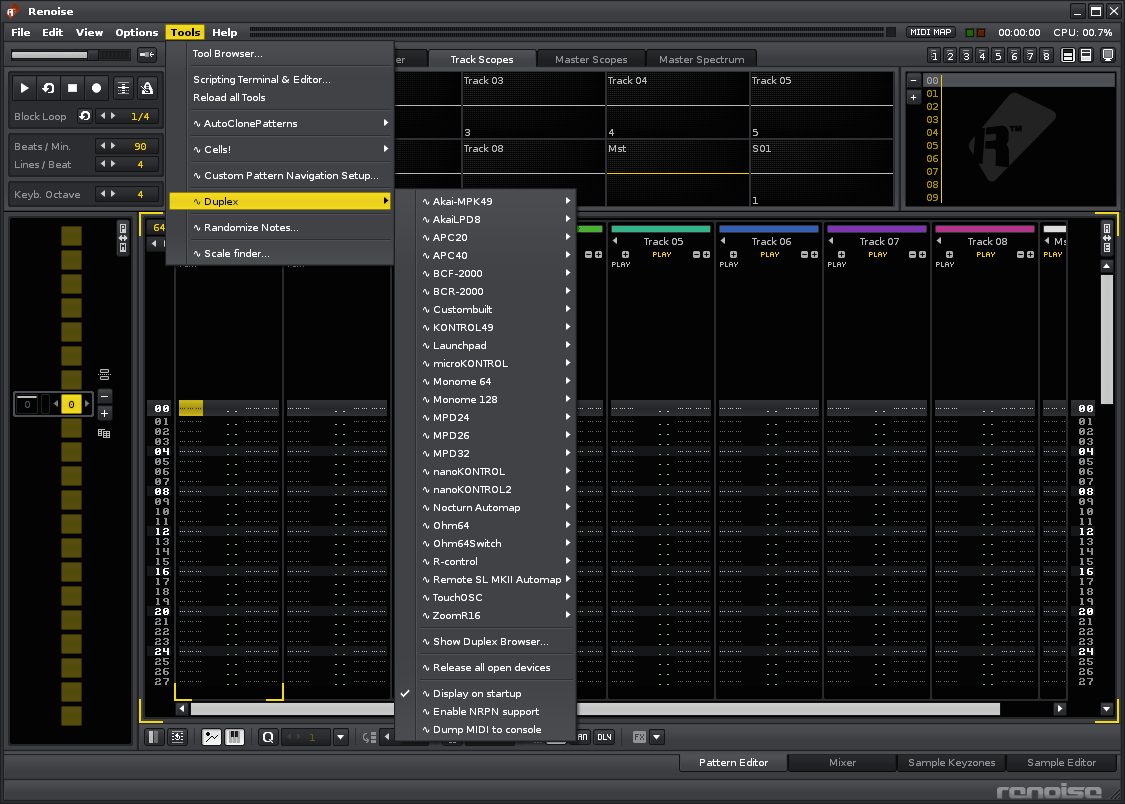
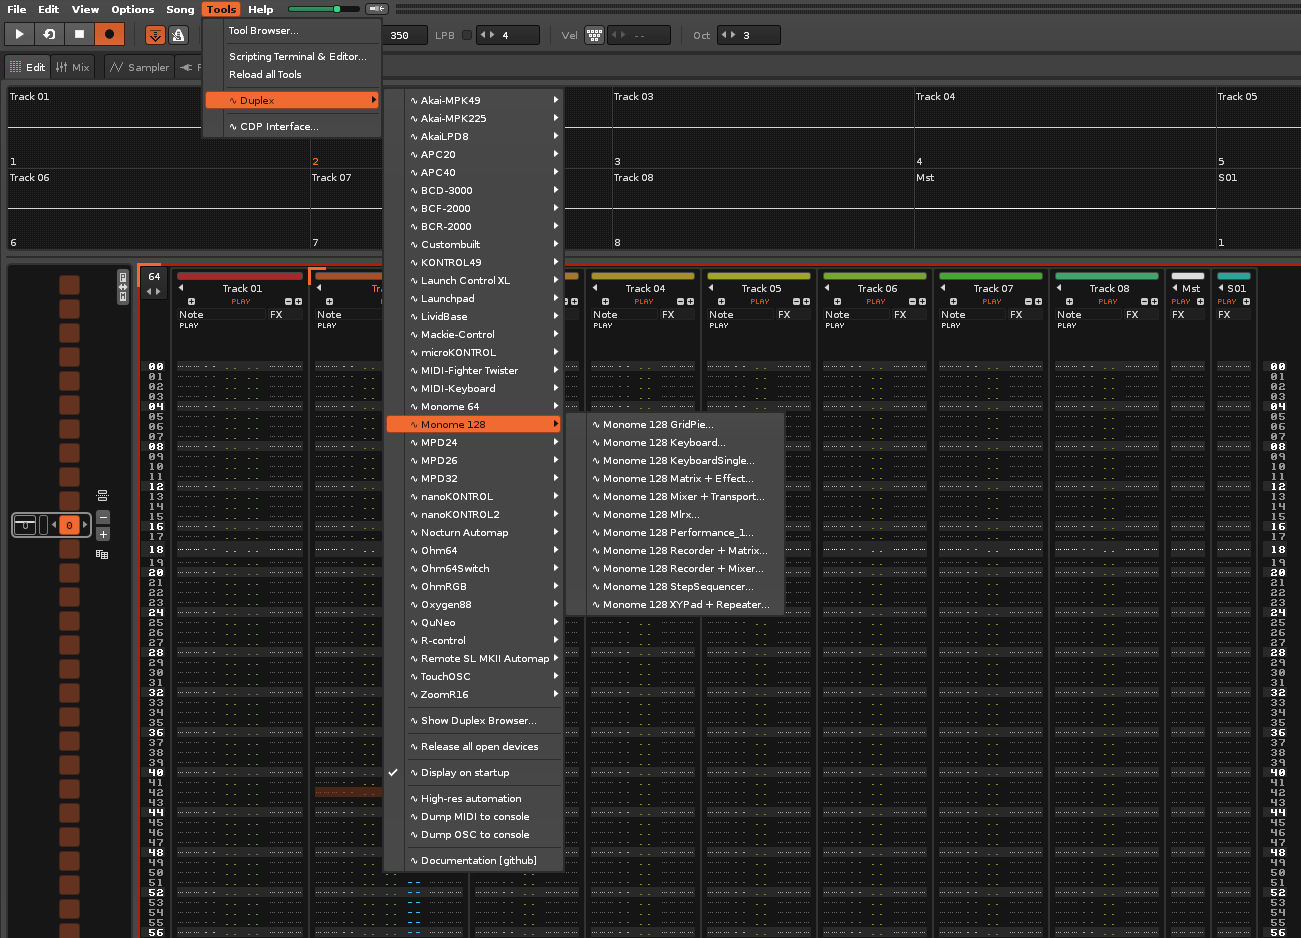
- update docs (new menu screenshot)

diff --git a/Tools/com.renoise.Duplex.xrnx/Docs/GettingStarted.md b/Tools/com.renoise.Duplex.xrnx/Docs/GettingStarted.md
@@ -2,9 +2,7 @@
 
 ## The front-end 
 
-For the most part, the Duplex front-end is designed to be self-documenting - mouse over any part of the interface to get help and
-additional information about what each buttons/control does. The following is a quick walk-through of the
-most important user-interface elements, and how they work:
+For the most part, the Duplex front-end is designed to be self-documenting - mouse over any part of the interface to get help and additional information about what each buttons/control does. The following is a quick walk-through of the most important user-interface elements, and how they work:
 
 ### The tool menu
 When Duplex is first installed, a sub-menu labelled Duplex will appear in the tools menu
@@ -15,25 +13,20 @@ When Duplex is first installed, a sub-menu labelled Duplex will appear in the to
 | Name          | Description   |
 | ------------- |---------------|
 |Show browser|Display the Duplex browser, the primary UI for displaying and navigating devices
+|Release all open devices| Close all running devices & configurations that are currently running
 |Display on startup| Enable this to show the Duplex browser on startup. This will only have an effect when one or more device configurations have been selected to “autostart”
-|Release all..| Close all running devices & configurations that are currently running
-|Dump MIDI..| This is useful for debugging faulty MIDI devices
+|High-res automation| Enable high-res automation recording for all applications that implement [Automateable](Applications/Automateable.md)
+|Dump MIDI to console| This is useful for debugging MIDI devices
+|Dump OSC to console| This is useful for debugging OSC devices
+|Documentation| Show the online documentation
 
-Furthermore, the menu provides quick access to all of Duplex’ presets (a.k.a. device configurations). Each
-one comes with a descriptive name such as "Launchpad Mixer + Matrix", or "Simple TouchOSC template",
-categorized by the device name. Each of these configurations represent a mix of application that we have
-found to be useful, sometimes selected by popular vote. Select any one of them, and the Duplex Browser
-dialog will appear.
+Furthermore, the menu provides quick access to all of Duplex’ presets (a.k.a. device configurations). Each one comes with a descriptive name such as "Launchpad Mixer + Matrix", or "Simple TouchOSC template", categorized by the device name. Each of these configurations represent a mix of application that we have found to be useful, sometimes selected by popular vote. Select any one of them, and the Duplex Browser dialog will appear.
 
 ### The browser
 
-From the Duplex browser, you can turn device configurations on/off, and switch between any device &
-it’s configurations. The window also contain a unique feature in Duplex, the virtual representation of the
-hardware using native Renoise UI components (a.k.a. the virtual control surface).  
+From the Duplex browser, you can turn device configurations on/off, and switch between any device & it’s configurations. The window also contain a unique feature in Duplex, the virtual representation of the hardware using native Renoise UI components (a.k.a. the virtual control surface).  
 
-The browser is a fully multi-tasking environment - each device configuration can define multiple
-applications, and multiple devices can be opened simultaneously. When a device is presently active and
-running, it will contain an additional “(running)” suffix appended to it’s name. 
+Note that the browser is a fully multi-tasking environment - each device configuration can define multiple applications, and multiple devices can be opened simultaneously. When a device is presently active and running, it will contain an additional “(running)” suffix appended to it’s name. 
 
 ![Duplex_browser.png](Images/Duplex_browser.png)  
 *The Duplex browser running a TouchOSC configuration*
@@ -46,11 +39,7 @@ running, it will contain an additional “(running)” suffix appended to it’s
 
 ### The options dialog
 
-With each device configuration you have an options dialog, which contain the device settings, as well as
-application-specific options. Note that these settings (including the device settings) are unique per device
-configuration, so you can have the Mixer application configured differently in two applications. The options
-are persistent (remembered between sessions) and applied in real-time, so any change you make should
-immediately be reflected on the device. 
+With each device configuration you have an options dialog, which contain the device settings, as well as application-specific options. Note that these settings (including the device settings) are unique per device configuration, so you can have the Mixer application configured differently in two applications. The options are persistent (remembered between sessions) and applied in real-time, so any change you make should immediately be reflected on the device. 
 
 ![Duplex_options.png](Images/Duplex_options.png)  
 *The Duplex options dialog*
